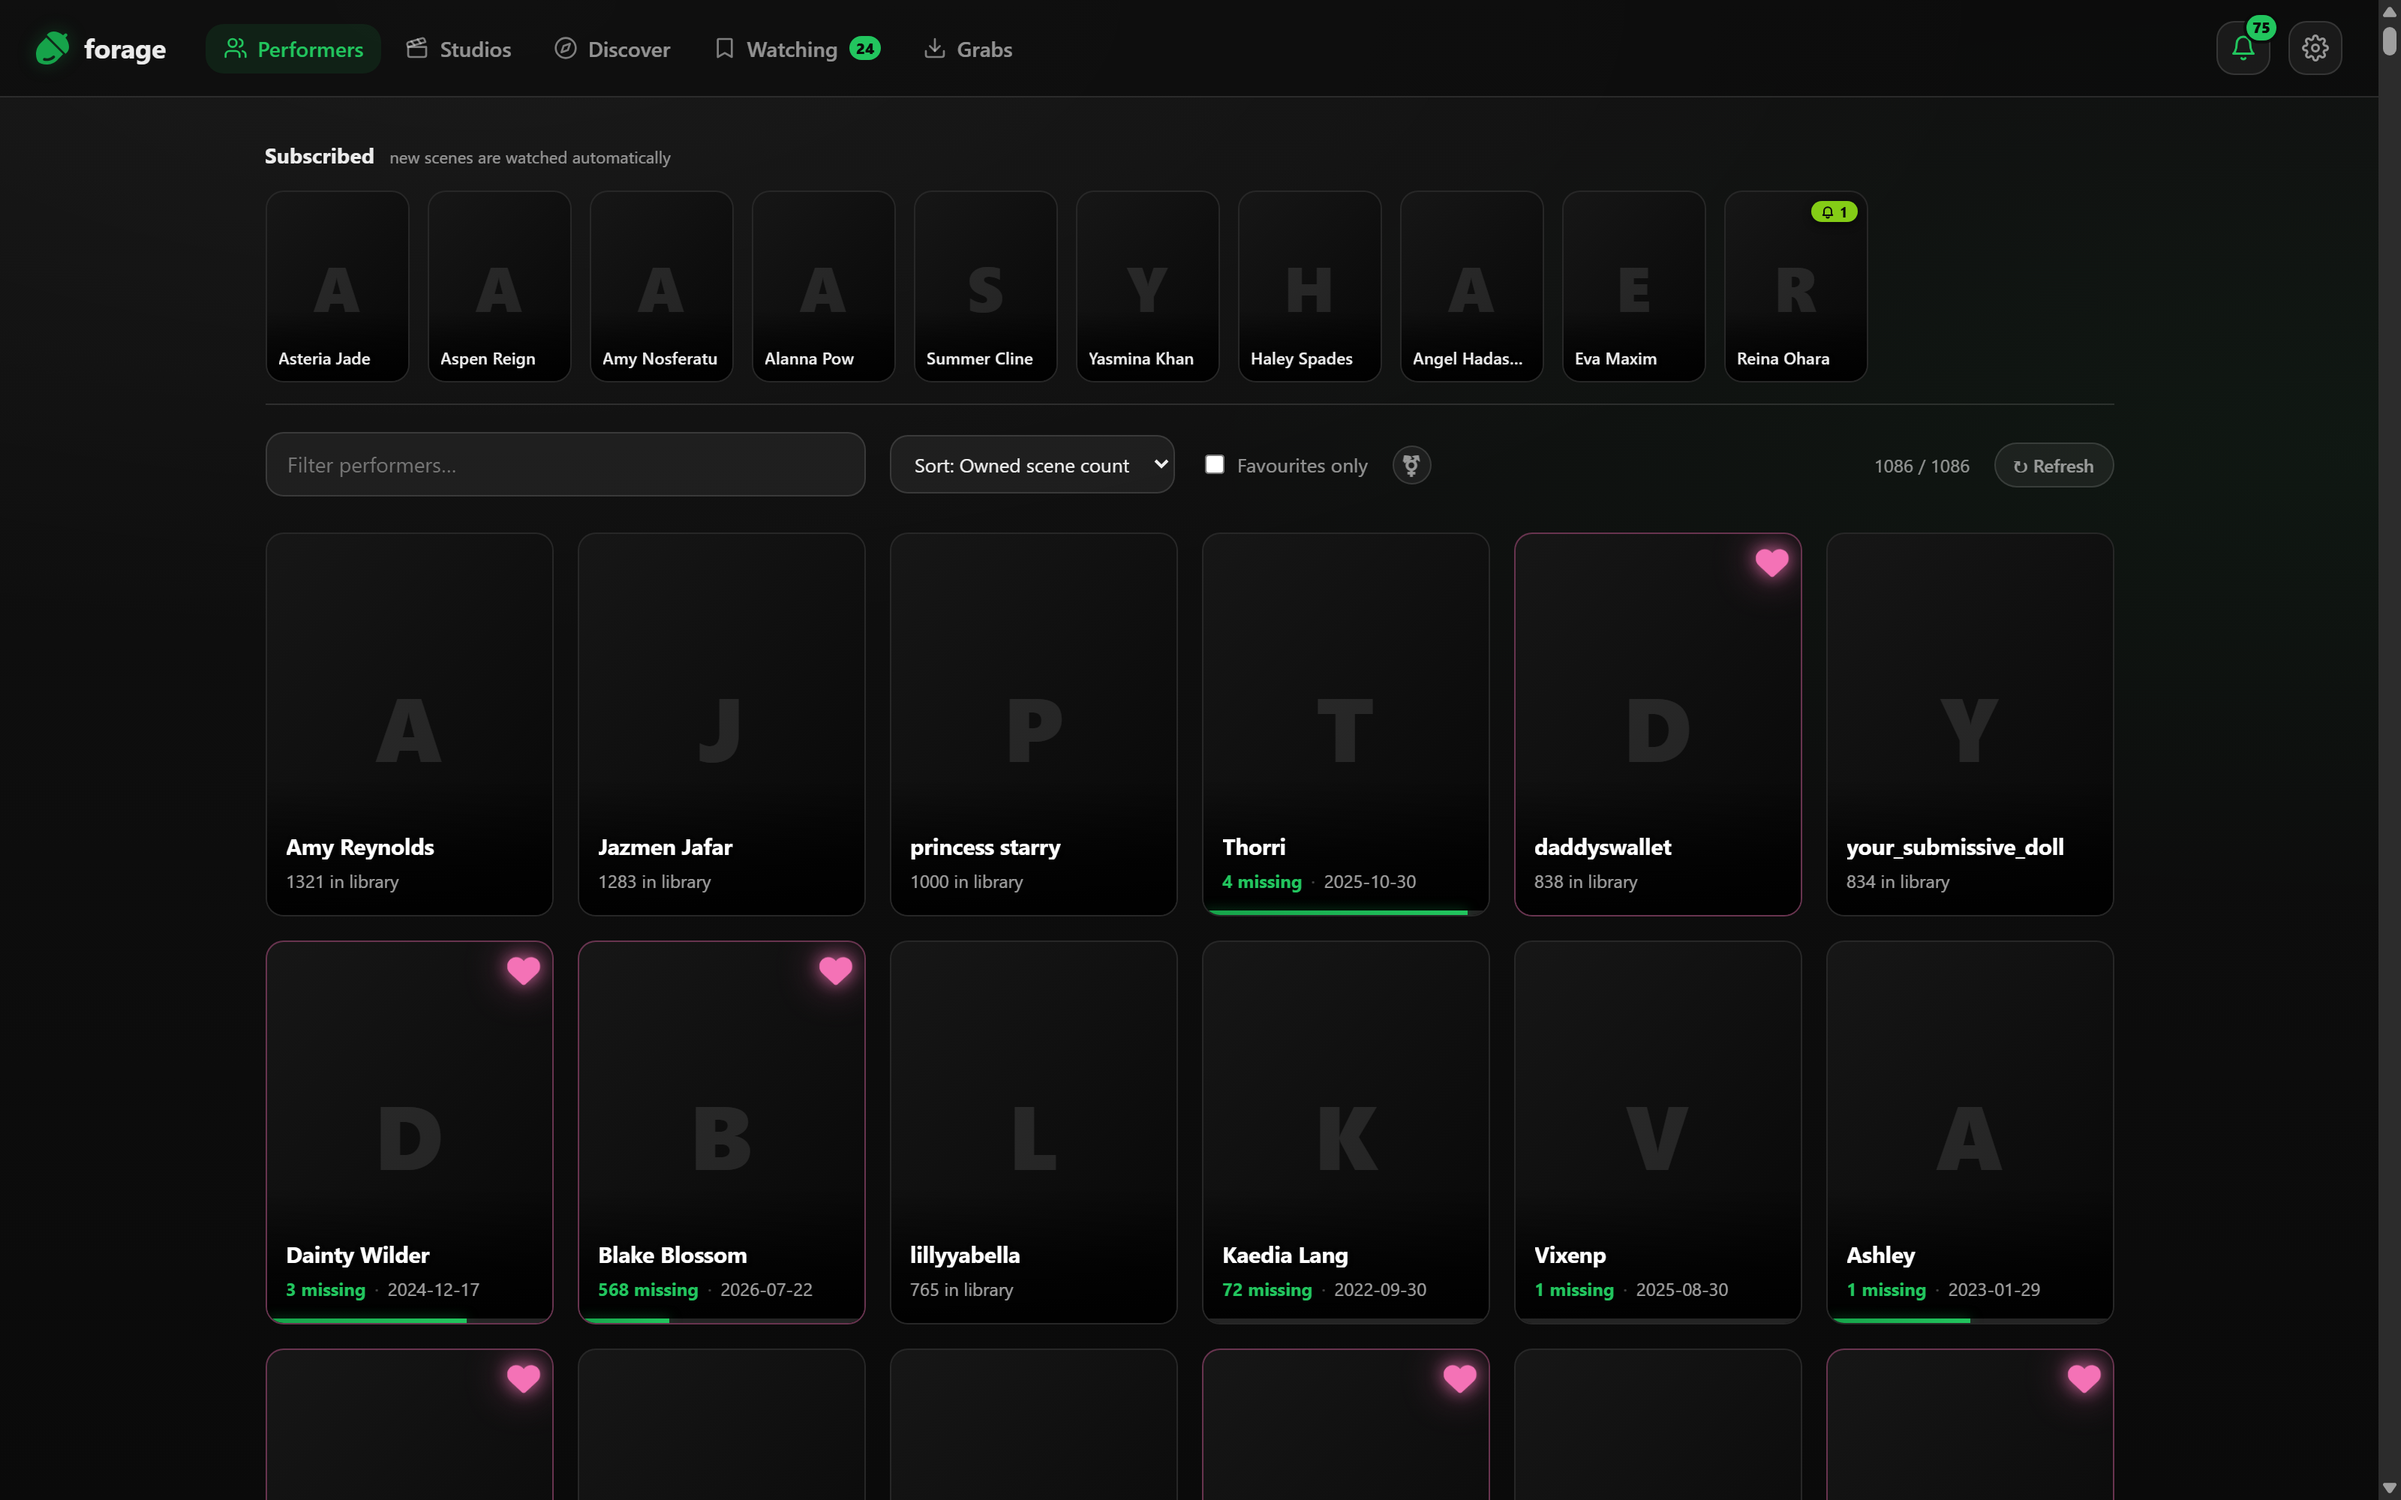
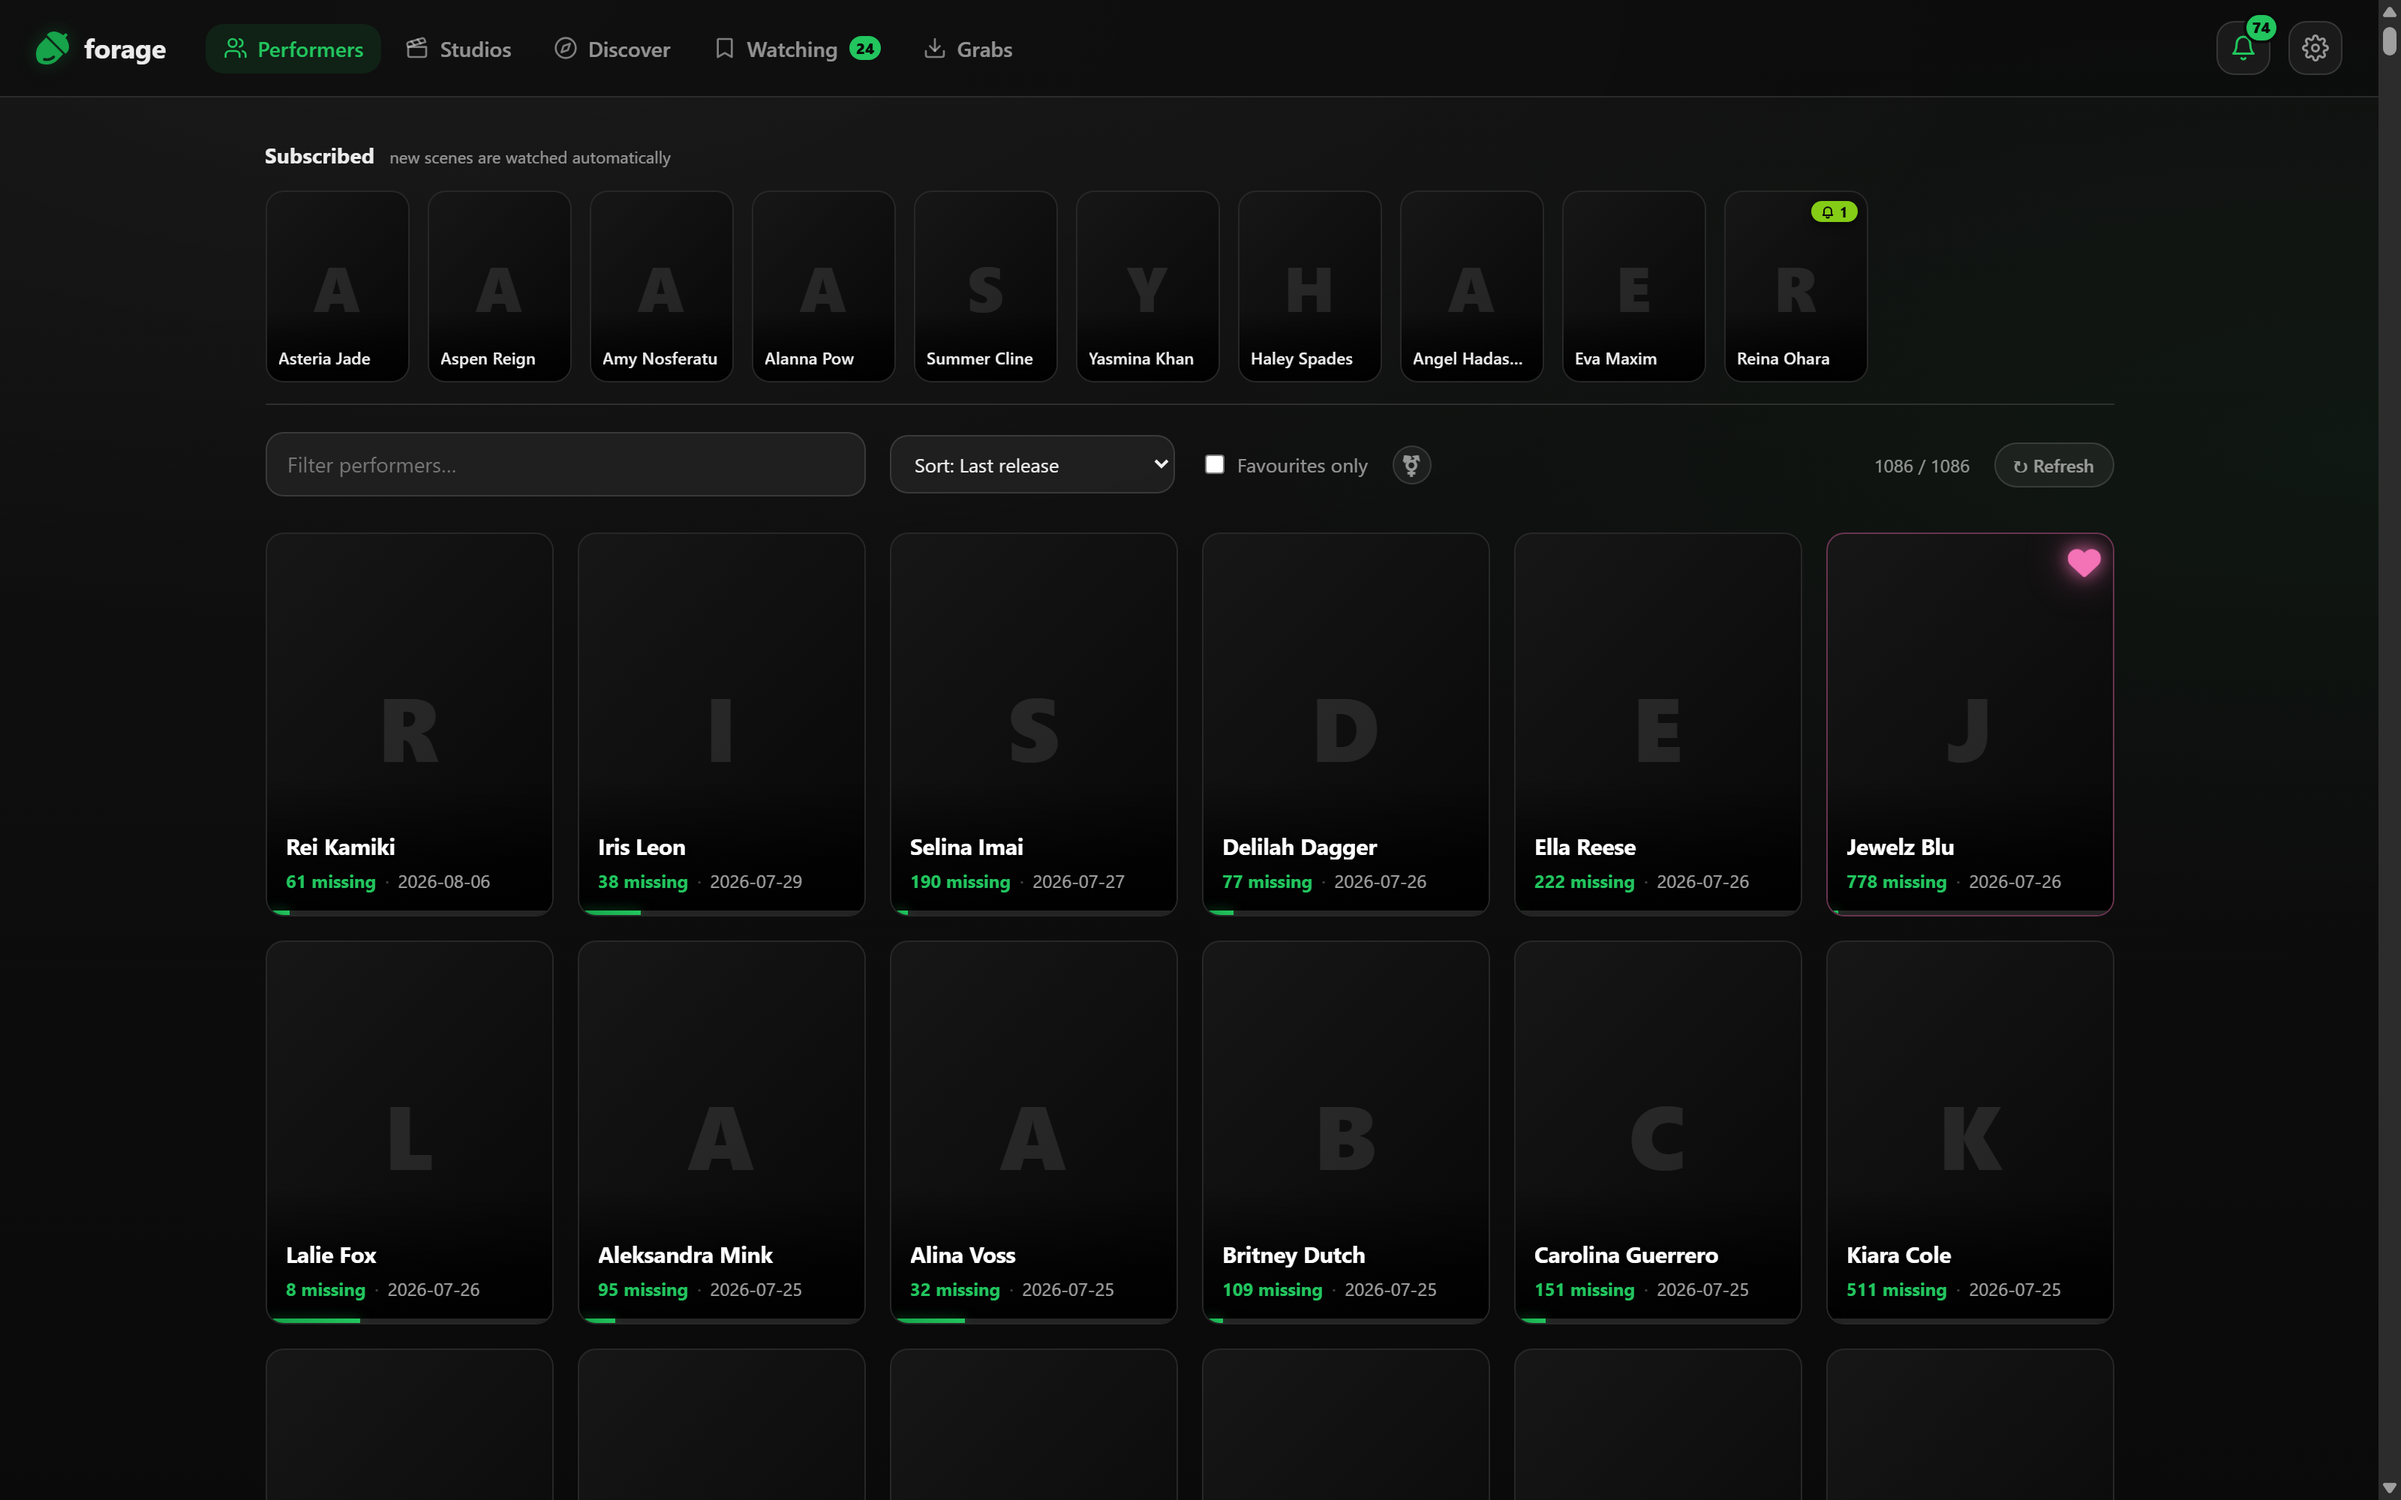
README: performer shot sorted by last release
Recency plus the missing counts tells the product story better than raw
owned totals — the grid now reads 'who released something this week, and
what am I missing from them'.

diff --git a/README.md b/README.md
@@ -171,7 +171,7 @@ folder".
 
 ### Performer-driven discovery
 
-![The performer grid — subscriptions up top, every card carrying its owned count and how many scenes you're missing](docs/assets/performers.png)
+![The performer grid sorted by last release — subscriptions up top, every card carrying its latest release date and how many scenes you're missing](docs/assets/performers.png)
 
 The **Performers** tab is your library, sortable four ways:
 
